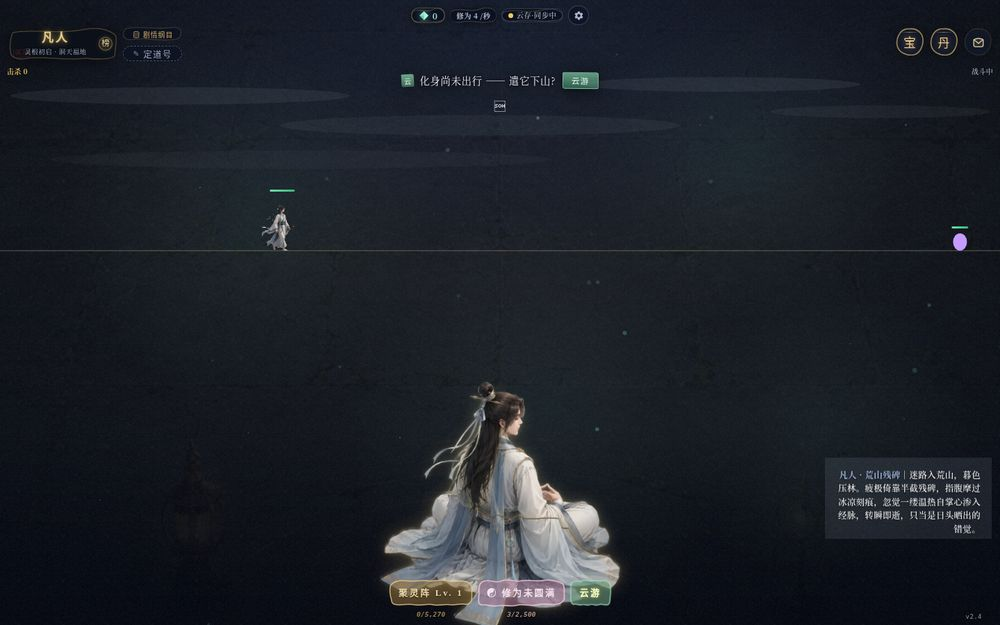
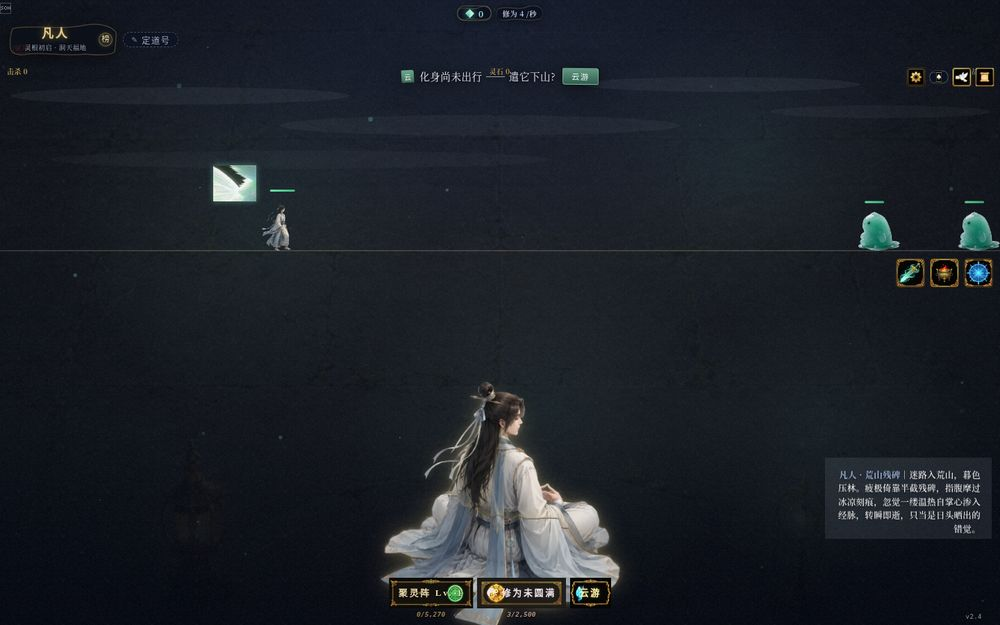
UI图标系统: 大图标(宝/丹/技)放地板右下, 小图标(设置/邮件/云存/剧情)放右上角, 底部3按钮换图标背景+文字, 激活态发光; 修复技能释放角色变大2倍bug; 修复宠物不显示bug(y坐标基于floorY)

diff --git a/index.html b/index.html
@@ -122,6 +122,27 @@
   .battle-hud .kills{color:#e8c56b;font-weight:700}
   .battle-hud .speed{color:#ff8a4a;font-weight:700}
 
+  /* 战斗区UI图标层：大图标(地板右下) + 小图标(右上角) */
+  .battle-ui{position:fixed;left:0;right:0;top:92px;bottom:calc(44vh + 84px);z-index:4;pointer-events:none}
+  .battle-ui .big-icons{position:absolute;bottom:6px;right:10px;display:flex;gap:7px;pointer-events:auto}
+  .battle-ui .small-icons{position:absolute;top:5px;right:8px;display:flex;gap:5px;pointer-events:auto;align-items:center}
+  .battle-ui .icon-btn{position:relative;width:42px;height:42px;border-radius:5px;overflow:hidden;cursor:pointer;transition:transform .15s,box-shadow .3s;border:1px solid rgba(232,197,107,.25);background:#000;flex:none}
+  .battle-ui .icon-btn img{width:100%;height:100%;display:block;pointer-events:none}
+  .battle-ui .icon-btn.small{width:28px;height:28px;border-radius:3px}
+  .battle-ui .icon-btn:active{transform:scale(.9)}
+  .battle-ui .icon-btn .lg{display:none}
+  /* 激活态：丹房可炼丹(橙光) */
+  .battle-ui .icon-btn.glow-ember{box-shadow:0 0 10px rgba(255,138,74,.9),0 0 20px rgba(255,138,74,.5);border-color:#ff8a4a;animation:iconPulseEmber 1.8s ease-in-out infinite}
+  @keyframes iconPulseEmber{0%,100%{box-shadow:0 0 6px rgba(255,138,74,.6)}50%{box-shadow:0 0 14px rgba(255,138,74,1),0 0 28px rgba(255,138,74,.5)}}
+  /* 激活态：有邮件(红点+金光) */
+  .battle-ui .icon-btn.has-mail{box-shadow:0 0 8px rgba(232,197,107,.8);border-color:#e8c56b}
+  .battle-ui .icon-btn .mail-dot{position:absolute;top:-1px;right:-1px;width:7px;height:7px;background:#ff4a4a;border-radius:50%;border:1px solid #fff;display:none;z-index:2}
+  .battle-ui .icon-btn.has-mail .mail-dot{display:block;animation:dotBlink 1.2s ease-in-out infinite}
+  @keyframes dotBlink{0%,100%{opacity:1}50%{opacity:.4}}
+  /* 激活态：金光(通用) */
+  .battle-ui .icon-btn.glow-gold{box-shadow:0 0 10px rgba(232,197,107,.9),0 0 20px rgba(232,197,107,.4);border-color:#e8c56b;animation:iconPulseGold 1.8s ease-in-out infinite}
+  @keyframes iconPulseGold{0%,100%{box-shadow:0 0 6px rgba(232,197,107,.6)}50%{box-shadow:0 0 14px rgba(232,197,107,1),0 0 28px rgba(232,197,107,.5)}}
+
   /* 主角（略微缩小以腾出战斗区空间） */
   .stage{position:fixed;inset:0;z-index:5;display:flex;align-items:flex-end;justify-content:center;pointer-events:none}
   .cult{position:relative;height:min(44vh,350px);aspect-ratio:825/835}
@@ -142,6 +163,8 @@
   /* 中央按钮 */
   .actions{position:fixed;left:0;right:0;bottom:24px;z-index:10;display:flex;justify-content:center;gap:10px;padding:0 14px}  /* v1.7.52: 上移 6px 给按钮下方数字进度留位 */
   /* v1.7.46 按钮内进度: SVG clipPath 复用墨形, 填充宽度即进度(聚灵阵=灵石/升级价, 突破=修为/所需) */
+  .btn .skin{position:absolute;inset:0;width:100%;height:100%;object-fit:fill;pointer-events:none;z-index:0}
+  .btn .label{position:relative;z-index:2}
   .btn .prog{position:absolute;inset:0;width:100%;height:100%;pointer-events:none;z-index:1;
     mix-blend-mode:multiply;isolation:isolate}   /* v1.7.49: 与按钮底色相乘 → 恒为"本色加深", 任何状态(金/红/禁用灰调)都不割裂 */
   /* v1.10.2: 右移躲屏幕圆角(原来 right:9px 的尾字被圆角吃掉), 并叠一层 safe-area 兜底 */
@@ -460,32 +483,16 @@
   <div class="res-bar">
     <div class="spirit res-chip"><svg class="sico" viewBox="0 0 20 20" aria-hidden="true"><path d="M10 1.5 L18.5 10 L10 18.5 L1.5 10 Z" fill="#67c9ab"/><path d="M10 1.5 L10 18.5 L18.5 10 Z" fill="#b7ecda"/><path d="M10 1.5 L1.5 10 L10 10 Z" fill="#9de0c9"/></svg><span id="spirit">0</span></div>
     <div class="rate res-chip">修为 <b id="rateText">0</b>/秒</div>
-    <div id="cloudChip" class="cloud-mini res-chip" onclick="cloudTogglePanel(event)" title="云存档"><span class="dot"></span><span id="cloudTxt">云存</span></div>
-    <button class="snd-btn" id="btnSet" onclick="openSettings()" title="设置" aria-label="设置"><svg viewBox="0 0 24 24" aria-hidden="true"><path d="M19.14 12.94a7.07 7.07 0 0 0 0-1.88l2.03-1.58a.5.5 0 0 0 .12-.64l-1.92-3.32a.5.5 0 0 0-.6-.22l-2.39.96a7.03 7.03 0 0 0-1.63-.94l-.36-2.54a.5.5 0 0 0-.5-.42h-3.84a.5.5 0 0 0-.5.42l-.36 2.54c-.59.24-1.13.56-1.63.94l-2.39-.96a.5.5 0 0 0-.6.22L2.75 8.84a.5.5 0 0 0 .12.64l2.03 1.58a7.07 7.07 0 0 0 0 1.88l-2.03 1.58a.5.5 0 0 0-.12.64l1.92 3.32c.12.22.38.3.6.22l2.39-.96c.5.38 1.04.7 1.63.94l.36 2.54c.04.24.25.42.5.42h3.84c.25 0 .46-.18.5-.42l.36-2.54c.59-.24 1.13-.56 1.63-.94l2.39.96c.22.08.48 0 .6-.22l1.92-3.32a.5.5 0 0 0-.12-.64l-2.03-1.58zM12 15.6a3.6 3.6 0 1 1 0-7.2 3.6 3.6 0 0 1 0 7.2z"/></svg></button>
   </div>
   <div class="hud-row">
     <div class="realm-left">
       <!-- v1.8.0: 榜单入口从资源栏移进境界牌 —— 资源栏不再被挤到第二行, 点整块境界牌即看榜 -->
       <div class="realm-badge" id="realmBadge" onclick="openRank()" title="洞天风云榜 · 前十"><span class="big" id="realmName">凡人</span><span class="sub-a" id="realmSubA"></span><span class="sub-b" id="realmSubB"></span><span class="rb-rank">榜</span></div>
       <div class="rl-btns">
-        <button class="story-btn" onclick="openStory()"><svg viewBox="0 0 20 20" style="width:12px;height:12px;vertical-align:-2px;margin-right:4px" aria-hidden="true"><path d="M5.4 3 C9 2.2 12.6 2.4 15.8 3.4 C16.6 3.8 16.8 4.6 16.6 5.4 L16.2 15.4 C16.2 16.2 15.6 16.8 14.8 16.8 C11.4 17.4 8 17.2 5 16.4 C4.4 16 4.2 15.4 4.4 14.8 L5 4.4 C5.1 3.8 5.2 3.3 5.4 3 Z" fill="none" stroke="currentColor" stroke-width="1.5"/><path d="M7.4 7 C10 6.4 12.4 6.4 14.4 6.8 M7.2 10 C9.6 9.5 11.8 9.5 14 9.9 M7.2 13 C9 12.7 10.8 12.7 12.6 13" fill="none" stroke="currentColor" stroke-width="1.2" stroke-linecap="round" opacity=".7"/></svg>剧情纲目</button>
         <button class="pname-btn" id="pName" onclick="openRename()" title="点此定道号"></button>
       </div>
     </div>
     <div class="hud-right">
-      <div class="hud-icons">
-        <div class="equip-chip" id="equipChip" onclick="openEquip()" title="法宝·装备"><span class="lg">宝</span></div>
-        <div class="equip-chip" id="alchemyChip" onclick="openAlchemy()" title="丹房 · 炼丹"><span class="lg" style="font-size:17px">丹</span></div>
-        <div class="equip-chip" id="skillChip" onclick="openSkills()" title="神通 · 技能"><span class="lg" style="font-size:17px">技</span></div>
-        <div class="mail-chip" id="mailChip" onclick="openMail()" title="鸿雁信匣">
-          <svg class="m-bg" viewBox="0 0 200 200" preserveAspectRatio="none" aria-hidden="true"><path class="ink" d="M100 8 C146 2 190 32 195 80 C200 130 172 188 126 195 C78 203 18 178 9 124 C1 74 28 16 78 8 C85 7 93 8 100 8 Z"/></svg>
-          <svg class="m-ico" viewBox="0 0 24 24" aria-hidden="true">
-            <path class="env" d="M4.6 7.8 C9 5.4 15 5.4 19.4 7.8 L19.4 16.2 C19.4 17.9 18 19 16.2 19 L7.8 19 C6 19 4.6 17.9 4.6 16.2 Z"/>
-            <path class="fold" d="M5.8 8.4 L12 13.6 L18.2 8.4"/>
-          </svg>
-          <span class="mail-dot" id="mailDot"></span>
-        </div>
-      </div>
       <div id="pillHints"></div>
     </div>
   </div>
@@ -509,6 +516,21 @@
   </div>
 </div>
 
+<!-- 战斗区UI图标层：大图标(地板右下) + 小图标(右上角) -->
+<div class="battle-ui" id="battleUI">
+  <div class="small-icons">
+    <button class="icon-btn small" id="btnSet" onclick="openSettings()" title="设置" aria-label="设置"><img src="assets/ui_icons/icon_settings.webp" alt="设置"></button>
+    <div class="icon-btn small" id="cloudChip" onclick="cloudTogglePanel(event)" title="云存档"><img src="assets/ui_icons/icon_cloud.webp" alt="云存档"><span class="dot" style="display:none"></span><span id="cloudTxt" style="display:none">云存</span></div>
+    <div class="icon-btn small" id="mailChip" onclick="openMail()" title="鸿雁信匣"><img src="assets/ui_icons/icon_mail.webp" alt="邮件"><span class="mail-dot" id="mailDot"></span></div>
+    <button class="icon-btn small" id="storyBtn" onclick="openStory()" title="剧情纲目"><img src="assets/ui_icons/icon_story.webp" alt="剧情"></button>
+  </div>
+  <div class="big-icons">
+    <div class="icon-btn" id="equipChip" onclick="openEquip()" title="法宝·装备"><img src="assets/ui_icons/icon_treasure.webp" alt="宝物"></div>
+    <div class="icon-btn" id="alchemyChip" onclick="openAlchemy()" title="丹房·炼丹"><img src="assets/ui_icons/icon_alchemy.webp" alt="丹房"><span class="lg"></span></div>
+    <div class="icon-btn" id="skillChip" onclick="openSkills()" title="神通·技能"><img src="assets/ui_icons/icon_skill.webp" alt="技能"></div>
+  </div>
+</div>
+
 <div class="stage">
   <div class="cult" id="cult">
     <img class="bodyL" src="assets/cultivator_body.webp" alt="">
@@ -522,9 +544,9 @@
 <div class="feed feed-avatar" id="avatarFeed"></div>
 <div class="feed feed-main" id="mainFeed"></div>
 <div class="actions">
-  <button class="btn" id="btnArray" onclick="tapArray()"><svg class="skin" viewBox="0 0 200 60" preserveAspectRatio="none" aria-hidden="true"><path class="ink" d="M12 9 C28 3 44 10 60 6 C76 2 92 8 108 6 C124 4 140 8 158 6 C174 4 192 8 197 16 C199 26 198 34 195 41 C193 46 196 52 182 53 C168 55 154 50 140 53 C124 56 110 50 96 53 C82 56 68 51 56 53 C42 55 30 50 20 52 C8 54 2 46 3 38 C3 28 2 20 5 15 C7 12 9 10 12 9 Z"/></svg><svg class="prog" viewBox="0 0 200 60" preserveAspectRatio="none" aria-hidden="true"><defs><clipPath id="arrFillClip"><path d="M12 9 C28 3 44 10 60 6 C76 2 92 8 108 6 C124 4 140 8 158 6 C174 4 192 8 197 16 C199 26 198 34 195 41 C193 46 196 52 182 53 C168 55 154 50 140 53 C124 56 110 50 96 53 C82 56 68 51 56 53 C42 55 30 50 20 52 C8 54 2 46 3 38 C3 28 2 20 5 15 C7 12 9 10 12 9 Z"/></clipPath></defs><rect id="arrFill" x="0" y="0" width="0" height="60" fill="url(#progGreen)" clip-path="url(#arrFillClip)"/></svg><span class="label">聚灵阵 Lv.<span id="arrayLv">1</span></span><i class="pnum" id="arrNum"></i></button>
-  <button class="btn primary" id="btnBreak" onclick="manualBreak()"><svg class="skin" viewBox="0 0 200 60" preserveAspectRatio="none" aria-hidden="true"><path class="ink" d="M14 7 C30 2 40 12 56 6 C72 1 84 9 100 6 C118 3 132 8 150 5 C166 3 184 6 194 12 C199 20 196 28 197 36 C198 44 194 50 180 52 C166 54 150 49 136 53 C120 57 104 50 90 54 C76 58 62 52 48 55 C34 57 20 52 10 53 C2 52 3 44 4 36 C5 27 3 19 6 14 C7 11 10 9 14 7 Z"/></svg><svg class="prog" viewBox="0 0 200 60" preserveAspectRatio="none" aria-hidden="true"><defs><clipPath id="brkFillClip"><path d="M14 7 C30 2 40 12 56 6 C72 1 84 9 100 6 C118 3 132 8 150 5 C166 3 184 6 194 12 C199 20 196 28 197 36 C198 44 194 50 180 52 C166 54 150 49 136 53 C120 57 104 50 90 54 C76 58 62 52 48 55 C34 57 20 52 10 53 C2 52 3 44 4 36 C5 27 3 19 6 14 C7 11 10 9 14 7 Z"/></clipPath></defs><rect id="brkFill" x="0" y="0" width="0" height="60" fill="url(#progJade)" clip-path="url(#brkFillClip)"/></svg><span class="label">☯ 立即突破</span><i class="pnum" id="brkNum"></i></button>
-  <button class="btn" id="btnTravel" onclick="openTravel()"><svg class="skin" viewBox="0 0 200 60" preserveAspectRatio="none" aria-hidden="true"><path class="ink" d="M12 9 C28 3 44 10 60 6 C76 2 92 8 108 6 C124 4 140 8 158 6 C174 4 192 8 197 16 C199 26 198 34 195 41 C193 46 196 52 182 53 C168 55 154 50 140 53 C124 56 110 50 96 53 C82 56 68 51 56 53 C42 55 30 50 20 52 C8 54 2 46 3 38 C3 28 2 20 5 15 C7 12 9 10 12 9 Z"/></svg><span class="label">云游</span></button>
+  <button class="btn" id="btnArray" onclick="tapArray()"><img class="skin" src="assets/ui_icons/btn_array.webp" alt=""><svg class="prog" viewBox="0 0 200 60" preserveAspectRatio="none" aria-hidden="true"><defs><clipPath id="arrFillClip"><path d="M12 9 C28 3 44 10 60 6 C76 2 92 8 108 6 C124 4 140 8 158 6 C174 4 192 8 197 16 C199 26 198 34 195 41 C193 46 196 52 182 53 C168 55 154 50 140 53 C124 56 110 50 96 53 C82 56 68 51 56 53 C42 55 30 50 20 52 C8 54 2 46 3 38 C3 28 2 20 5 15 C7 12 9 10 12 9 Z"/></clipPath></defs><rect id="arrFill" x="0" y="0" width="0" height="60" fill="url(#progGreen)" clip-path="url(#arrFillClip)"/></svg><span class="label">聚灵阵 Lv.<span id="arrayLv">1</span></span><i class="pnum" id="arrNum"></i></button>
+  <button class="btn primary" id="btnBreak" onclick="manualBreak()"><img class="skin" src="assets/ui_icons/btn_break.webp" alt=""><svg class="prog" viewBox="0 0 200 60" preserveAspectRatio="none" aria-hidden="true"><defs><clipPath id="brkFillClip"><path d="M14 7 C30 2 40 12 56 6 C72 1 84 9 100 6 C118 3 132 8 150 5 C166 3 184 6 194 12 C199 20 196 28 197 36 C198 44 194 50 180 52 C166 54 150 49 136 53 C120 57 104 50 90 54 C76 58 62 52 48 55 C34 57 20 52 10 53 C2 52 3 44 4 36 C5 27 3 19 6 14 C7 11 10 9 14 7 Z"/></clipPath></defs><rect id="brkFill" x="0" y="0" width="0" height="60" fill="url(#progJade)" clip-path="url(#brkFillClip)"/></svg><span class="label">☯ 立即突破</span><i class="pnum" id="brkNum"></i></button>
+  <button class="btn" id="btnTravel" onclick="openTravel()"><img class="skin" src="assets/ui_icons/btn_travel.webp" alt=""><span class="label">云游</span></button>
 </div>
 
 <div class="ver-float"><span class="ver-tag" id="verTag"></span></div>
@@ -1135,9 +1157,9 @@
       }
       /* 上下浮动 */
       pet.bobT += dt * 2.5;
-      /* 跟随玩家: 左上方, 平滑跟随 */
+      /* 跟随玩家: 左上方, 平滑跟随 (基于地板位置, 不是p.y=0) */
       const targetX = p.x + pet.offsetX;
-      const targetY = p.y + pet.offsetY + Math.sin(pet.bobT) * 3;
+      const targetY = floorY() + pet.offsetY + Math.sin(pet.bobT) * 3;
       pet.x += (targetX - pet.x) * Math.min(1, dt * 6);
       pet.y += (targetY - pet.y) * Math.min(1, dt * 6);
 
@@ -1385,8 +1407,8 @@
       const row = Math.floor(frameIdx / SKILL.cols);
       const srcX = col * SKILL.fw;
       const srcY = row * SKILL.fh;
-      /* 技能帧较大(480x256), 按角色高度缩放, 与普通攻击角色大小一致 */
-      const drawH = Math.min(CH * 0.55, 80) * (SKILL.fh / SPRITE.fh);  /* 按比例放大 */
+      /* 技能帧较大(480x256), 但角色应与普通攻击一样大, 不按帧高比例放大 */
+      const drawH = Math.min(CH * 0.55, 80);
       const drawW = drawH * (SKILL.fw / SKILL.fh);
       ctx.save();
       ctx.translate(sx, sy);
@@ -1394,8 +1416,9 @@
       /* 技能发光效果 */
       ctx.shadowColor = 'rgba(150,220,255,0.6)';
       ctx.shadowBlur = 12;
-      /* 技能帧中角色脚底在 y=250, 需要偏移对齐 */
+      /* 技能帧中角色脚底在 y=250(帧高256), 偏移对齐地板 */
       const footOffset = (SKILL.fh - 250) / SKILL.fh * drawH;
+      /* 角色中心在帧中 x≈200/480≈0.42, 水平对齐 */
       ctx.drawImage(G.skillSprite, srcX, srcY, SKILL.fw, SKILL.fh, -drawW*0.42, -drawH + footOffset, drawW, drawH);
       ctx.restore();
       drawHpBar(sx, sy-drawH*0.7-10, 36, p.hp, p.maxHp);
